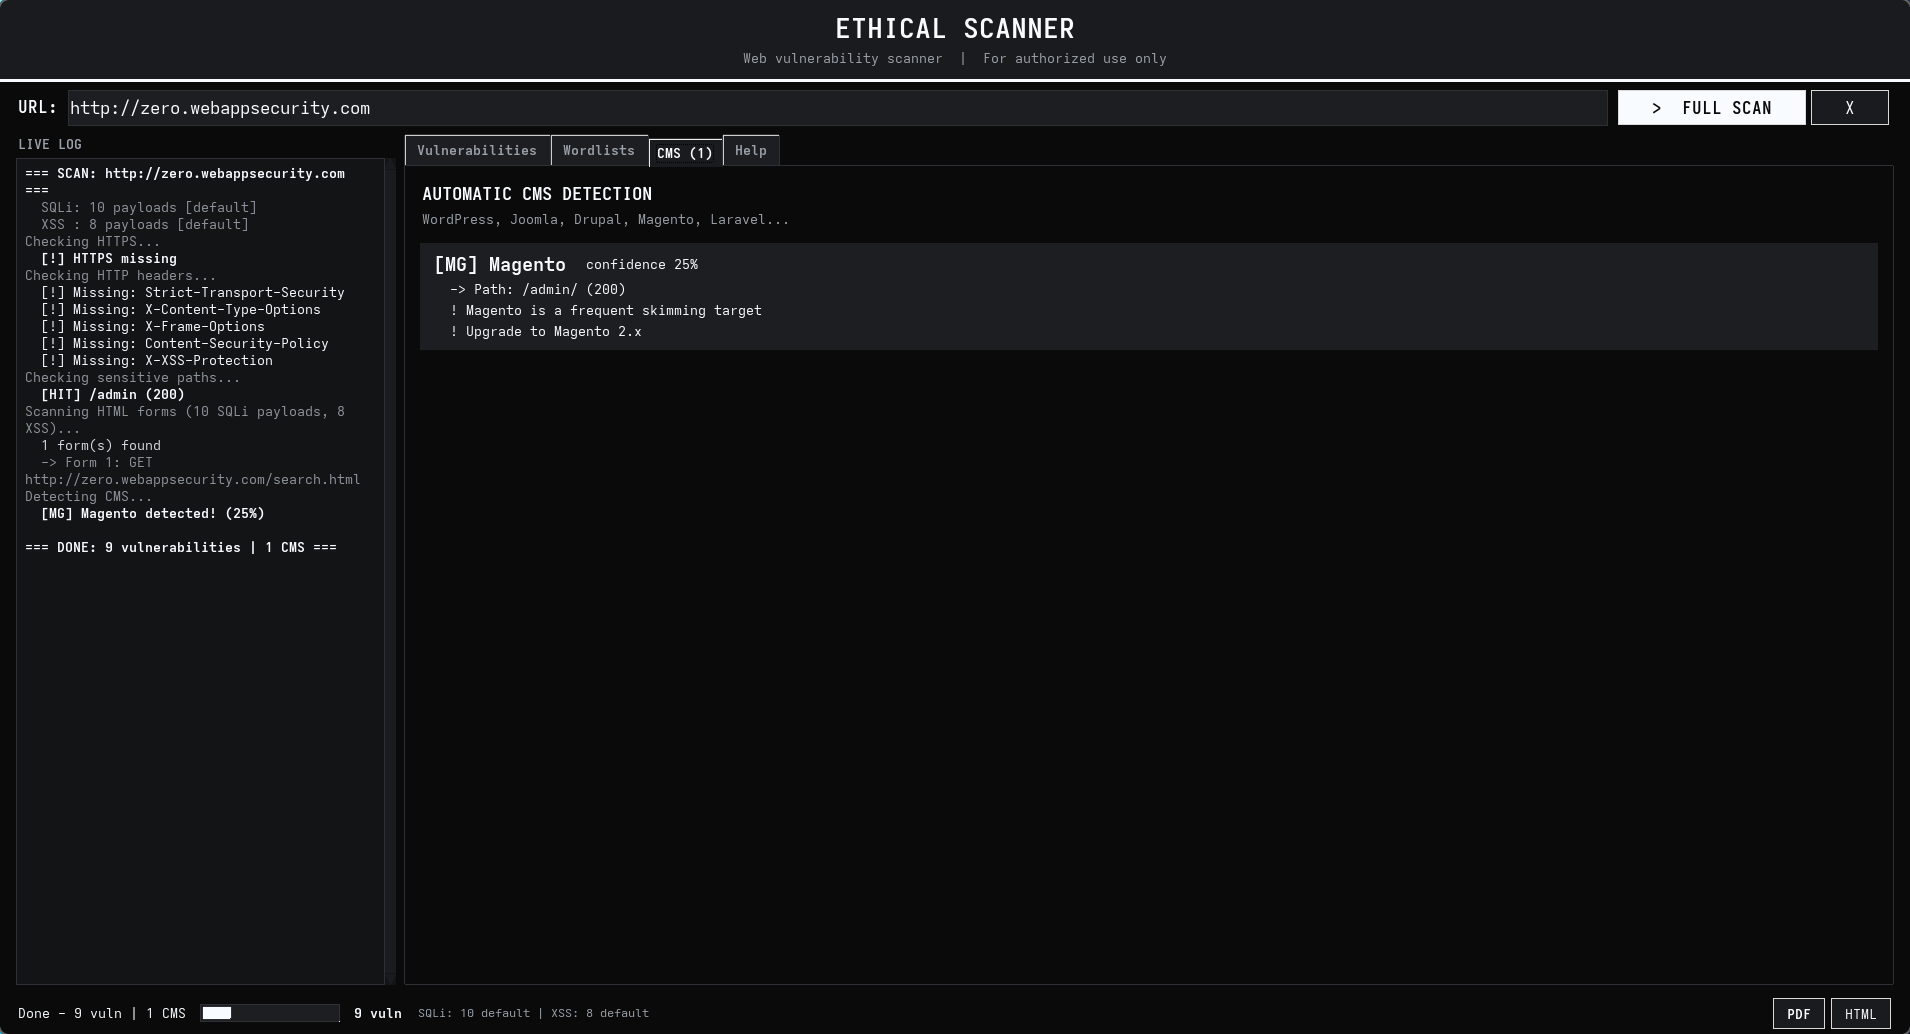
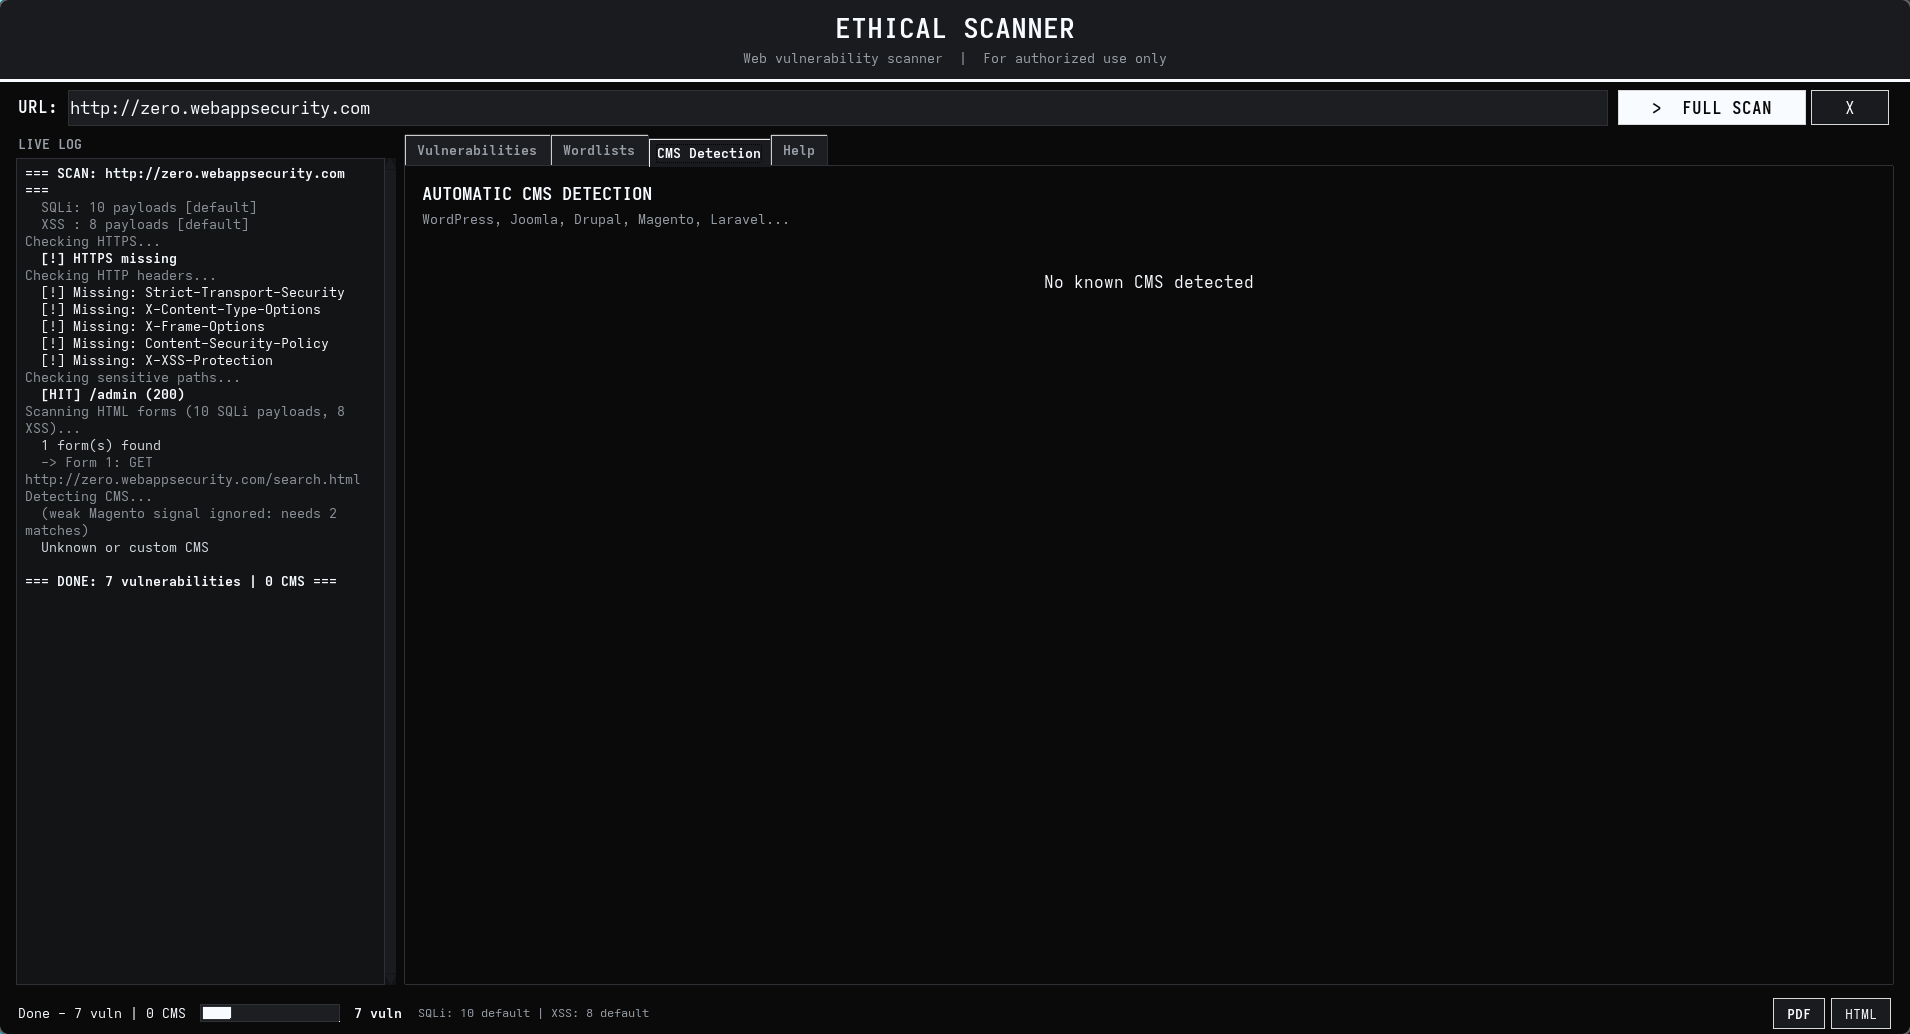
Require 2 matching signals for CMS detection; distinct recommendation rows

diff --git a/ethical_scanner.py b/ethical_scanner.py
@@ -307,6 +307,11 @@ CMS_SIGNATURES = {
 
 
 #  SCAN ENGINE (receives the wordlists)
+# A CMS is only reported when at least this many independent signals match
+# (path, header, cookie, HTML pattern): one generic hit such as /admin/ is not enough.
+MIN_CMS_SCORE = 2
+
+
 def short_error(e):
     """Turn a long requests/urllib3 exception into a one-line message."""
     msg = str(e)
@@ -564,7 +569,9 @@ class ScanEngine(threading.Thread):
                     evidence.append(f"HTML: {p[:40]}")
                     break
 
-            if score > 0:
+            if 0 < score < MIN_CMS_SCORE:
+                self.log(f"  (weak {cms_name} signal ignored: needs {MIN_CMS_SCORE} matches)", "info")
+            if score >= MIN_CMS_SCORE:
                 self.detected_cms.append(
                     {
                         "name": cms_name,
@@ -583,8 +590,8 @@ class ScanEngine(threading.Thread):
                     self.record_vuln(
                         f"[{cms_name}] Recommendation",
                         "Medium",
-                        f"CMS {cms_name} detected.",
                         rec,
+                        f"Detected CMS: {cms_name}",
                     )
 
         self.update_cms(self.detected_cms)
